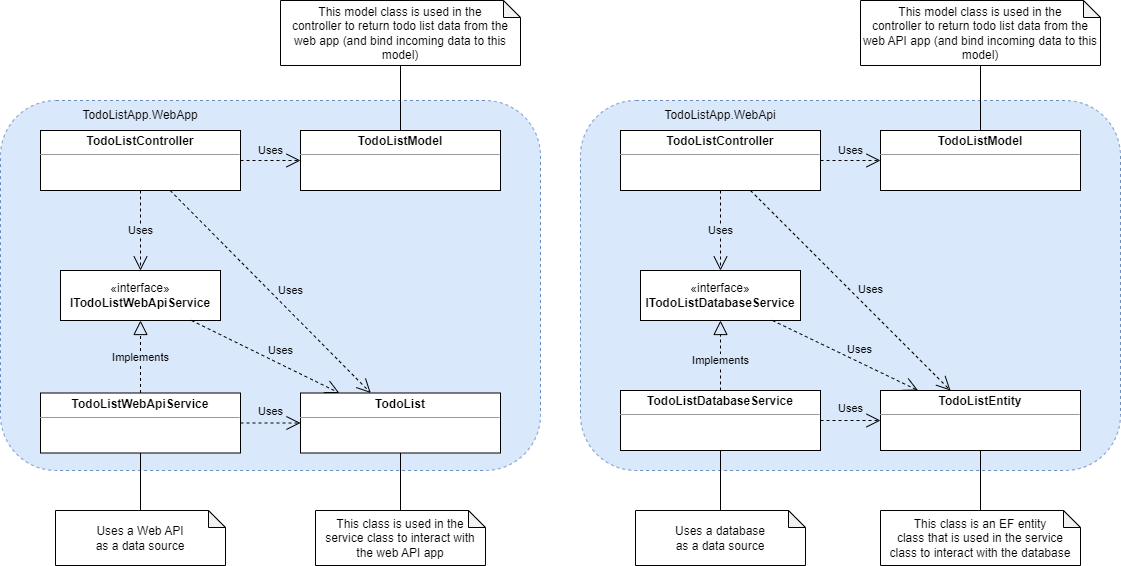
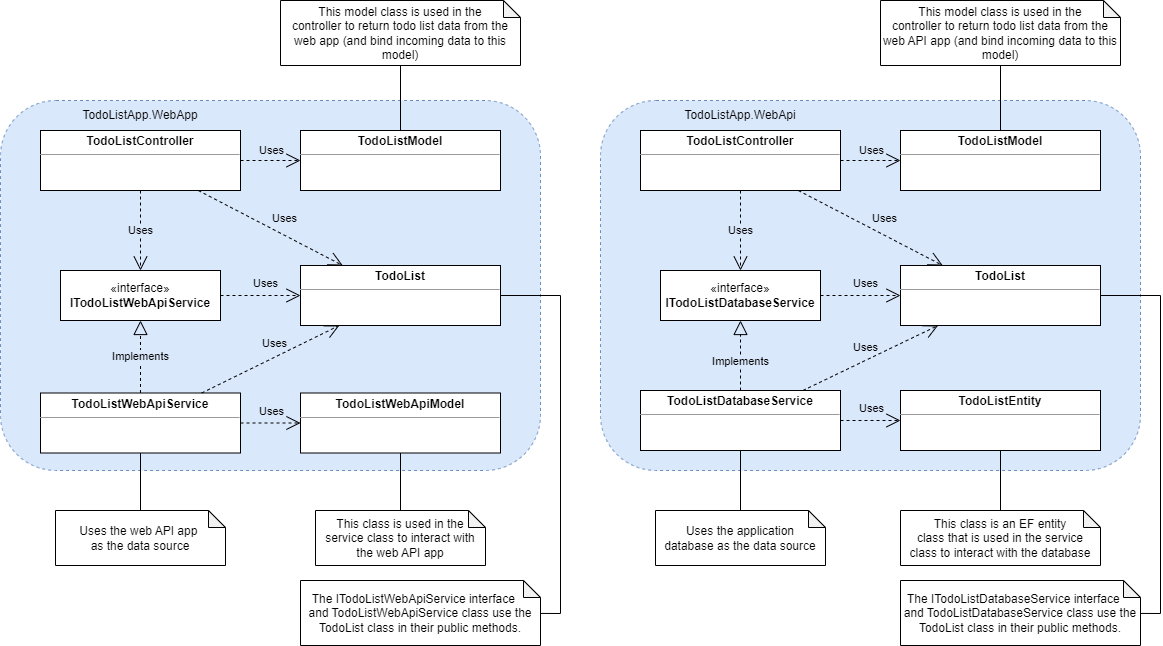
Add.

diff --git a/delivery-plan.md b/delivery-plan.md
@@ -16,7 +16,8 @@ Development tasks are tasks with a technical description of what needs to be don
     * Add a new service class named `TodoListDatabaseService` to the *TodoListApp.WebApi* project to manage to-do lists in the database; configure the service as a dependency in the *TodoListApp.WebApi* app.
     * Add a new controller class named `TodoListController` to the *TodoListApp.WebApi* project; resolve service dependencies using constructor injection.
     * US01: Add new methods to the `TodoListDatabaseService` to get the list of to-do lists from the database; make all necessary changes in other classes and methods.
-    * US01: Implement the REST endpoint in the *TodoListApp.WebApi* project to get the list of to-do lists; the list must be in JSON format. Place the model classes for this endpoint in the *TodoListApp.WebApi   * project.
+    * US01: Add a new model class named *TodoListModel* to the *TodoListApp.WebApi* project.
+    * US01: Implement the REST endpoint in the *TodoListApp.WebApi* project to get the list of to-do lists; the list must be in JSON format. Use the *TodoListModel* class as the model in the controller methods.
     * US02: Add new methods to the `TodoListDatabaseService` to add a new to-do list; make all necessary changes in other classes and methods.
     * US02: Implement the REST endpoint in the *TodoListApp.WebApi* project to add a new to-do list; the input data must be in JSON format; and the endpoint must return meaningful status codes in case of errors. Place the model classes for this endpoint in the *TodoListApp.WebApi* project.
     * US03: Add new methods to the `TodoListDatabaseService` to delete an existing to-do list; make all necessary changes in other classes and methods.
